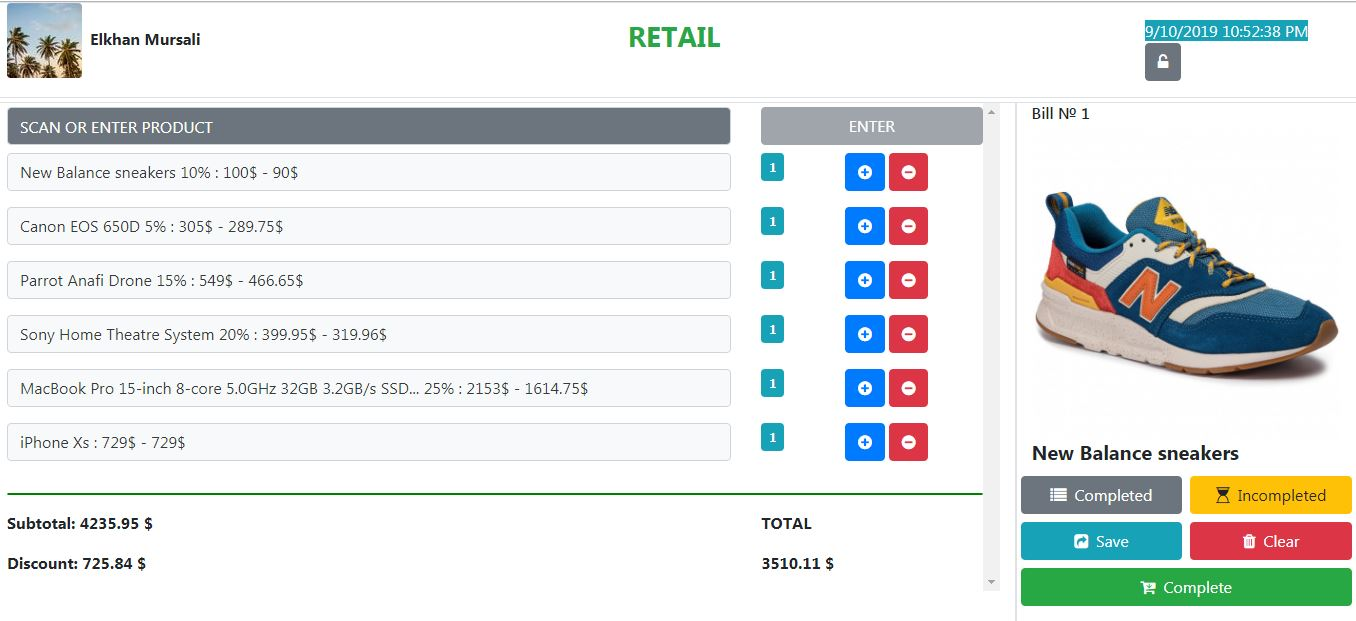
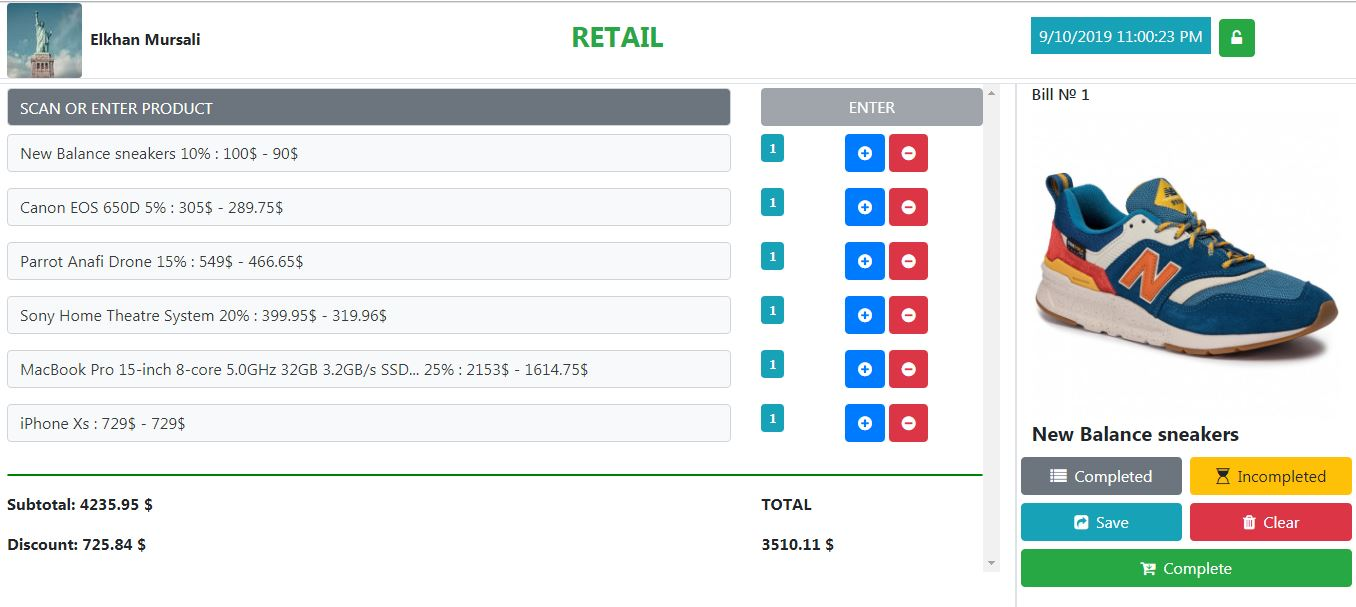
Updating screenshot image

diff --git a/Retail/src/app/header/header.component.html b/Retail/src/app/header/header.component.html
@@ -3,13 +3,13 @@
     <img src="https://picsum.photos/75" class="rounded mr-2" />
     <span class="font-weight-bold">{{ userFullName }}</span>
   </div>
-  <div class="col-md-8 p-3">
+  <div class="col-md-7 p-3">
     <h3 class="text-uppercase font-weight-bold text-center text-success">
       {{ title }}
     </h3>
   </div>
-  <div class="col-md-2 p-3">
-    <span class="text-light bg-info mr-1">{{ currentDateTime }}</span>
-    <button class="btn btn-secondary"><i class="fa fa-unlock-alt"></i></button>
+  <div class="col-md-3 p-3">
+    <span class="text-light bg-info mr-2 p-2">{{ currentDateTime }}</span>
+    <button class="btn btn-success"><i class="fa fa-unlock-alt"></i></button>
   </div>
 </div>
